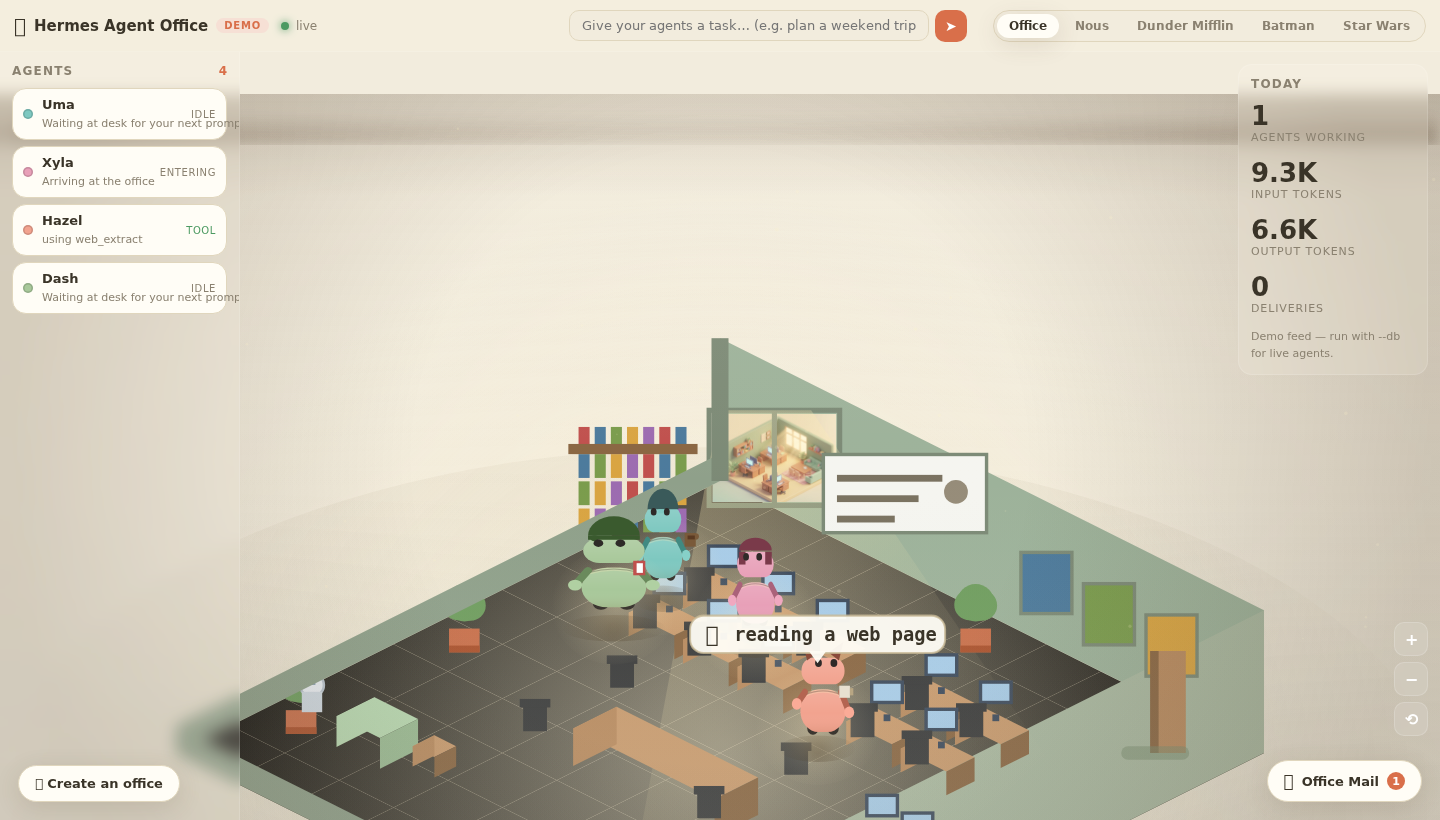
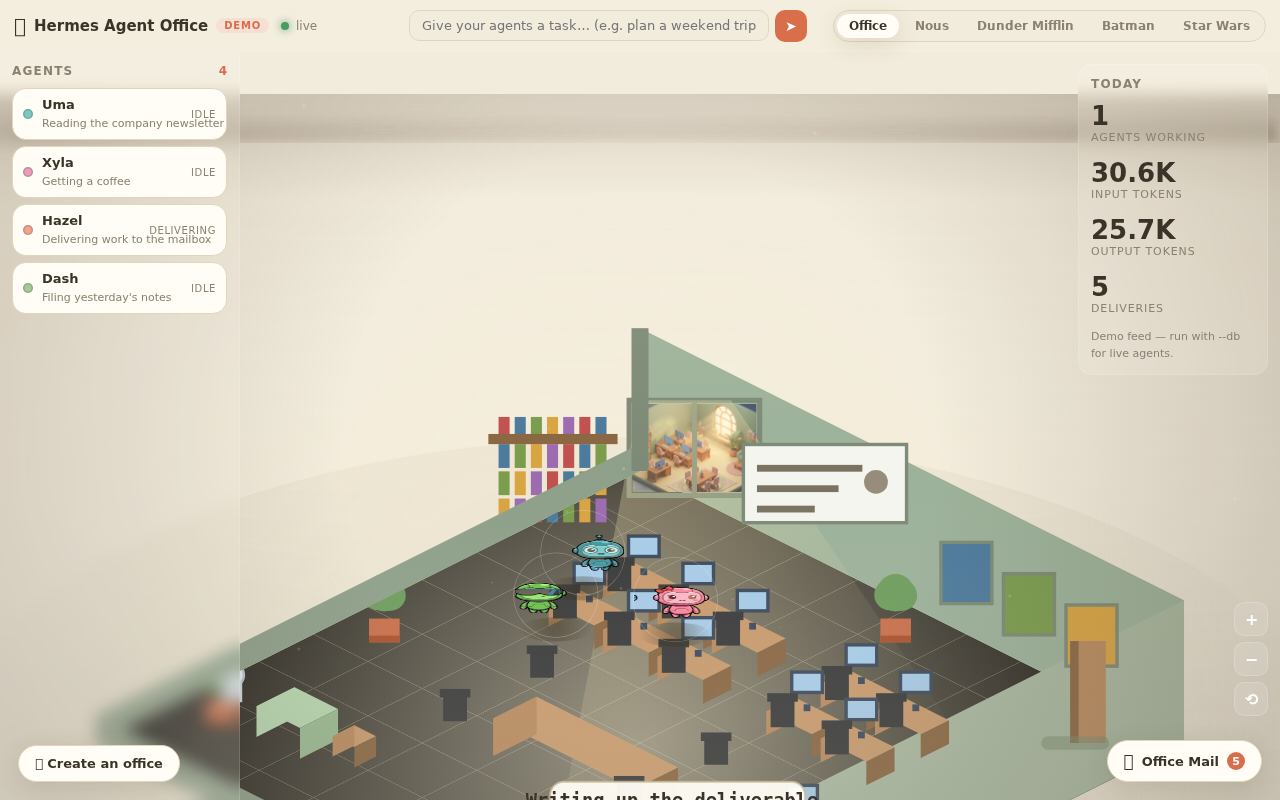
feat: THE visible change — default Office theme now uses real AI-generated character sprites (Uma/Xyla/Hazel/Dash/Pixel/Coco/Gizmo/Yara robots) instead of generic capsules; 20 sprites total; fresh README office shot

diff --git a/web/office-renderer.js b/web/office-renderer.js
@@ -32,7 +32,8 @@ const OfficeRenderer = {
 
   _loadSprites() {
     const names = ['batman', 'robin', 'catwoman', 'joker', 'luke', 'leia', 'han', 'chewbacca',
-                   'michael', 'dwight', 'jim', 'pam'];
+                   'michael', 'dwight', 'jim', 'pam', 'uma', 'xyla', 'hazel', 'dash',
+                   'pixel', 'coco', 'gizmo', 'yara'];
     for (const n of names) {
       const img = new Image();
       img.src = 'assets/char-' + n + '.png';
